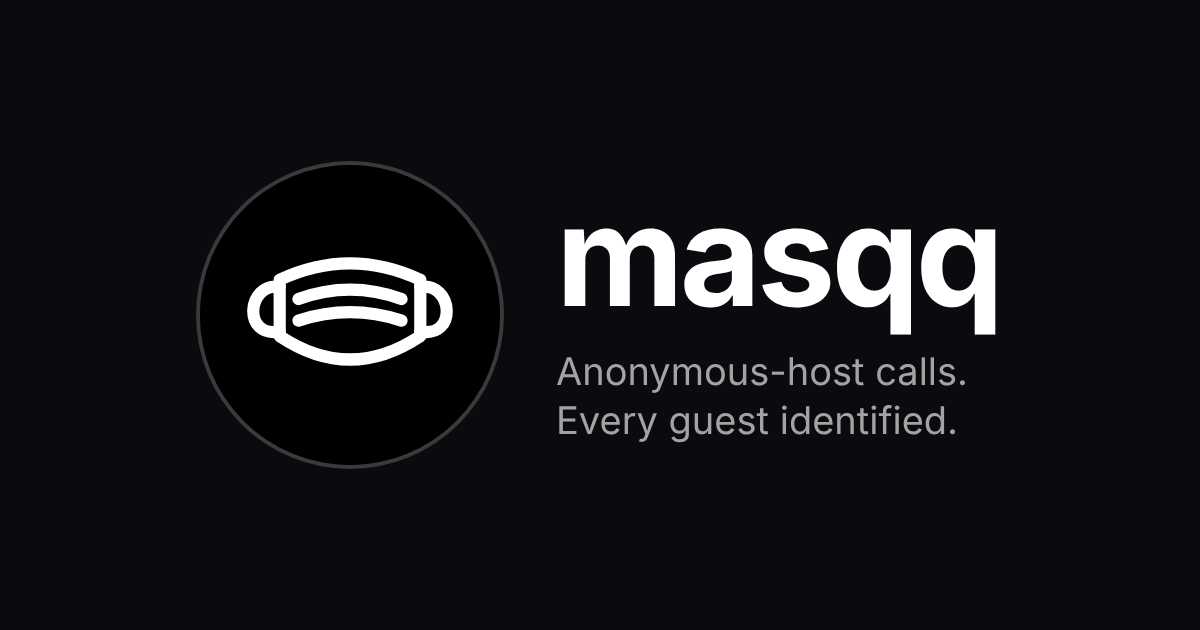
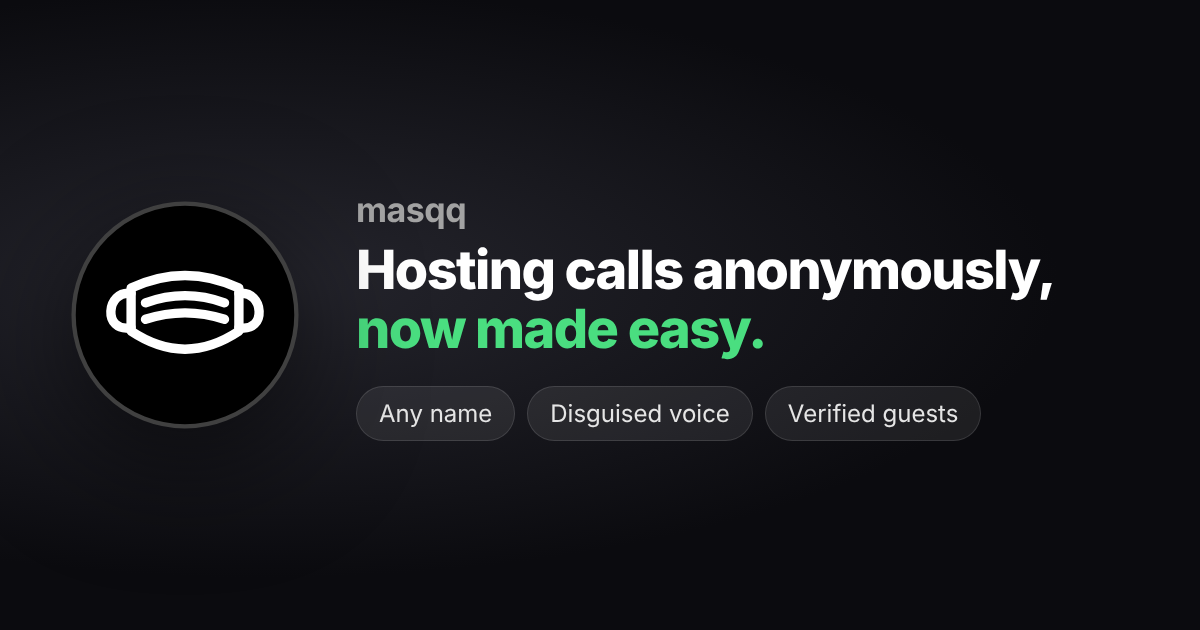
iPhone-style sign-in, home and invite screens; new link preview
Centered app-icon hero, premium Continue with Google pill with a loading
state, San Francisco font on Apple devices, and a link preview reading
'Hosting calls anonymously, now made easy.'

Claude-Session: https://claude.ai/code/session_01DkNDgiUFyz1a6dLDFGU6bu

diff --git a/src/app/c/[callId]/page.tsx b/src/app/c/[callId]/page.tsx
@@ -2,7 +2,8 @@ import type { Metadata } from "next";
 import { notFound, redirect } from "next/navigation";
 import { auth } from "@/auth";
 import { GoogleSignInButton } from "@/components/auth-buttons";
-import { LogoMark } from "@/components/logo";
+import { AuthScreen } from "@/components/brand-hero";
+import { Logo, LogoMark } from "@/components/logo";
 import { Avatar } from "@/components/ui/primitives";
 import { JoinRequest } from "@/components/join-request";
 import { db } from "@/lib/db";
@@ -21,9 +22,10 @@ export async function generateMetadata({ params }: Params): Promise<Metadata> {
   if (!call || call.status === "ENDED") return { title: "Call invite" };
   const who = call.hostTitle ? `${call.hostAlias} (${call.hostTitle})` : call.hostAlias;
   const title = `${who} invited you to a call`;
-  const description = "Join on masqq. Sign in with Google to request to join.";
+  const description = "A private masqq call. The host stays anonymous; tap to ask to join.";
   // Setting openGraph here replaces the root one, so the image must be repeated.
-  const images = [{ url: "/opengraph-image.png", width: 1200, height: 630, alt: "masqq" }];
+  // Bump ?v= whenever the image changes: WhatsApp caches previews by image URL.
+  const images = [{ url: "/opengraph-image.png?v=2", width: 1200, height: 630, alt: "masqq" }];
   return {
     title,
     description,
@@ -45,23 +47,28 @@ export default async function InvitePage({ params }: Params) {
     });
     if (!call) notFound();
     return (
-      <main className="mx-auto flex min-h-dvh max-w-md flex-col px-5 pb-[max(1.5rem,env(safe-area-inset-bottom))] pt-6">
-        <LogoMark className="h-9 w-9" />
+      <AuthScreen>
+        <Logo className="text-[17px]" />
         <div className="flex flex-1 flex-col items-center justify-center py-8 text-center">
           <Avatar name={call.hostAlias} size="h-28 w-28 text-4xl" />
-          <p className="mt-5 text-sm text-neutral-400">You&apos;re invited to a call with</p>
-          <h1 className="mt-1 text-3xl font-semibold">{call.hostAlias}</h1>
-          {call.hostTitle && <p className="mt-1 text-neutral-300">{call.hostTitle}</p>}
+          <p className="mt-5 text-[15px] text-neutral-400">You&apos;re invited to a call with</p>
+          <h1 className="mt-1 text-[28px] font-bold tracking-tight">{call.hostAlias}</h1>
+          {call.hostTitle && <p className="mt-0.5 text-[17px] text-neutral-300">{call.hostTitle}</p>}
+          <span className="mt-4 rounded-full bg-white/[0.06] px-3 py-1 text-[13px] text-neutral-300 ring-1 ring-white/10">
+            Anonymous host
+          </span>
         </div>
         {call.status === "ENDED" ? (
-          <p className="rounded-xl border border-neutral-800 p-5 text-neutral-300">This call has ended.</p>
+          <p className="w-full rounded-3xl bg-neutral-900 p-5 text-center text-neutral-300">This call has ended.</p>
         ) : (
-          <>
-            <p className="mb-3 text-center text-sm text-neutral-400">Sign in with Google to ask to join.</p>
+          <div className="w-full space-y-3 text-center">
             <GoogleSignInButton redirectTo={`/c/${segment}`} />
-          </>
+            <p className="px-4 text-[13px] leading-relaxed text-neutral-500">
+              Sign in to ask to join. The host will see your Google name and email.
+            </p>
+          </div>
         )}
-      </main>
+      </AuthScreen>
     );
   }
 

diff --git a/src/app/page.tsx b/src/app/page.tsx
@@ -1,28 +1,63 @@
 import Link from "next/link";
 import { auth } from "@/auth";
-import { LogoMark } from "@/components/logo";
+import { GoogleSignInButton } from "@/components/auth-buttons";
+import { AuthScreen, BrandHero } from "@/components/brand-hero";
+import { MicIcon, PeopleIcon, ShieldIcon } from "@/components/ui/icons";
+
+const FEATURES = [
+  {
+    icon: ShieldIcon,
+    tint: "bg-indigo-500",
+    title: "Any name, every call",
+    text: "Pick a new name for each call. Guests never see your account.",
+  },
+  {
+    icon: MicIcon,
+    tint: "bg-orange-500",
+    title: "A voice that isn't yours",
+    text: "Your voice is disguised on your phone before anyone hears it.",
+  },
+  {
+    icon: PeopleIcon,
+    tint: "bg-green-500",
+    title: "Know who's on the line",
+    text: "Every guest signs in with Google, and you let each one in.",
+  },
+];
 
 export default async function Home() {
   const session = await auth();
 
   return (
-    <main className="mx-auto flex min-h-screen max-w-2xl flex-col justify-center gap-6 px-4">
-      <h1 className="flex items-center gap-3 text-5xl font-semibold tracking-tight">
-        <LogoMark className="h-14 w-14" />
-        masqq
-      </h1>
-      <p className="text-lg text-neutral-400">
-        Host voice and video calls under any name, with a disguised voice. Every
-        guest signs in with Google, so you always know who you&apos;re talking to.
-      </p>
-      <div>
-        <Link
-          href={session?.user ? "/start" : "/signin"}
-          className="inline-block rounded-lg bg-white px-5 py-2.5 font-medium text-black hover:bg-neutral-200"
-        >
-          {session?.user ? "Open masqq" : "Sign in"}
-        </Link>
+    <AuthScreen>
+      <div className="flex flex-1 flex-col items-center justify-center gap-10 py-6">
+        <BrandHero />
+        <ul className="w-full divide-y divide-white/5 overflow-hidden rounded-3xl bg-neutral-900/70 ring-1 ring-white/5 backdrop-blur">
+          {FEATURES.map((f) => (
+            <li key={f.title} className="flex items-start gap-3.5 px-4 py-3.5 text-left">
+              <span className={`mt-0.5 flex h-8 w-8 shrink-0 items-center justify-center rounded-[9px] ${f.tint}`}>
+                <f.icon className="h-[18px] w-[18px] text-white" />
+              </span>
+              <span>
+                <span className="block text-[15px] font-semibold">{f.title}</span>
+                <span className="block text-[13px] leading-snug text-neutral-400">{f.text}</span>
+              </span>
+            </li>
+          ))}
+        </ul>
       </div>
-    </main>
+      <div className="w-full">
+        {session?.user ? (
+          <Link
+            href="/start"
+            className="flex h-14 w-full items-center justify-center rounded-full bg-white text-[17px] font-semibold text-black shadow-[0_10px_40px_-10px_rgba(255,255,255,0.35)] transition active:scale-[0.98]"
+          >
+            Open masqq
+          </Link>
+        ) : (
+          <GoogleSignInButton />
+        )}
+      </div>
+    </AuthScreen>
   );
 }

diff --git a/src/app/signin/page.tsx b/src/app/signin/page.tsx
@@ -2,7 +2,7 @@ import { redirect } from "next/navigation";
 import { z } from "zod";
 import { auth } from "@/auth";
 import { GoogleSignInButton } from "@/components/auth-buttons";
-import { LogoMark } from "@/components/logo";
+import { AuthScreen, BrandHero } from "@/components/brand-hero";
 
 const searchSchema = z.object({
   // Only allow same-site relative paths, to avoid open redirects.
@@ -14,6 +14,8 @@ const searchSchema = z.object({
   error: z.string().optional().catch(undefined),
 });
 
+export const metadata = { title: "Sign in" };
+
 export default async function SignInPage({
   searchParams,
 }: {
@@ -24,18 +26,22 @@ export default async function SignInPage({
   if (session?.user) redirect(session.user.banned ? "/suspended" : callbackUrl);
 
   return (
-    <main className="mx-auto flex min-h-screen max-w-sm flex-col justify-center gap-6 px-4">
-      <div>
-        <LogoMark className="mb-4 h-12 w-12" />
-        <h1 className="text-2xl font-semibold">Sign in to masqq</h1>
-        <p className="mt-1 text-sm text-neutral-400">Google sign-in only.</p>
+    <AuthScreen>
+      <div className="flex flex-1 items-center">
+        <BrandHero />
       </div>
-      {error && (
-        <p className="rounded-lg border border-red-900 bg-red-950 px-3 py-2 text-sm text-red-300">
-          Sign-in failed. Please try again.
+      <div className="w-full space-y-4 text-center">
+        {error && (
+          <p className="rounded-2xl bg-red-500/10 px-4 py-3 text-sm text-red-300">
+            Sign-in didn&apos;t finish. Please try again.
+          </p>
+        )}
+        <GoogleSignInButton redirectTo={callbackUrl} />
+        <p className="px-4 text-[13px] leading-relaxed text-neutral-500">
+          When you host, guests only see the name you choose. When you join a call, the host sees your Google name and
+          email.
         </p>
-      )}
-      <GoogleSignInButton redirectTo={callbackUrl} />
-    </main>
+      </div>
+    </AuthScreen>
   );
 }

diff --git a/src/components/google-submit.tsx b/src/components/google-submit.tsx
@@ -1,0 +1,33 @@
+"use client";
+
+import { useFormStatus } from "react-dom";
+
+function GoogleG({ className }: { className?: string }) {
+  return (
+    <svg viewBox="0 0 48 48" className={className} aria-hidden>
+      <path fill="#FFC107" d="M43.6 20.5H42V20H24v8h11.3C33.7 32.7 29.2 36 24 36c-6.6 0-12-5.4-12-12s5.4-12 12-12c3.1 0 5.8 1.2 7.9 3.1l5.7-5.7C34 6.1 29.3 4 24 4 12.9 4 4 12.9 4 24s8.9 20 20 20 20-8.9 20-20c0-1.3-.1-2.4-.4-3.5z" />
+      <path fill="#FF3D00" d="m6.3 14.7 6.6 4.8C14.7 15.1 19 12 24 12c3.1 0 5.8 1.2 7.9 3.1l5.7-5.7C34 6.1 29.3 4 24 4 16.3 4 9.7 8.3 6.3 14.7z" />
+      <path fill="#4CAF50" d="M24 44c5.2 0 9.9-2 13.4-5.2l-6.2-5.2C29.2 35.1 26.7 36 24 36c-5.2 0-9.6-3.3-11.3-7.9l-6.5 5C9.5 39.6 16.2 44 24 44z" />
+      <path fill="#1976D2" d="M43.6 20.5H42V20H24v8h11.3c-.8 2.2-2.2 4.2-4.1 5.6l6.2 5.2C37 39.2 44 34 44 24c0-1.3-.1-2.4-.4-3.5z" />
+    </svg>
+  );
+}
+
+/** The premium "Continue with Google" pill. Shows a spinner while redirecting. */
+export function GoogleSubmit() {
+  const { pending } = useFormStatus();
+  return (
+    <button
+      type="submit"
+      disabled={pending}
+      className="relative flex h-14 w-full items-center justify-center gap-3 rounded-full bg-white text-[17px] font-semibold text-black shadow-[0_10px_40px_-10px_rgba(255,255,255,0.35)] ring-1 ring-white/60 transition active:scale-[0.98] disabled:opacity-80"
+    >
+      {pending ? (
+        <span className="h-5 w-5 animate-spin rounded-full border-2 border-black/20 border-t-black" aria-hidden />
+      ) : (
+        <GoogleG className="h-6 w-6" />
+      )}
+      {pending ? "Opening Google…" : "Continue with Google"}
+    </button>
+  );
+}

diff --git a/src/components/brand-hero.tsx b/src/components/brand-hero.tsx
@@ -1,0 +1,35 @@
+import { LogoMark } from "@/components/logo";
+
+
+/** Centered app-icon style logo, name and tagline used on the sign-in screens. */
+export function BrandHero() {
+  return (
+    <div className="flex flex-col items-center text-center">
+      <div className="relative">
+        <div className="absolute inset-0 -z-10 scale-150 rounded-full bg-white/10 blur-3xl" aria-hidden />
+        <div className="rounded-[28px] bg-gradient-to-b from-neutral-800 to-neutral-950 p-3 shadow-2xl ring-1 ring-white/10">
+          <LogoMark className="h-20 w-20" />
+        </div>
+      </div>
+      <h1 className="mt-6 text-[34px] font-bold leading-tight tracking-tight">masqq</h1>
+      <p className="mt-2 text-[17px] leading-snug text-neutral-400">
+        Hosting calls anonymously,
+        <br />
+        now made easy.
+      </p>
+    </div>
+  );
+}
+
+/** Full-height, centered, safe-area aware screen with a soft top glow. */
+export function AuthScreen({ children }: { children: React.ReactNode }) {
+  return (
+    <main className="relative isolate mx-auto flex min-h-dvh w-full max-w-md flex-col items-center px-6 pb-[max(2rem,env(safe-area-inset-bottom))] pt-[max(2rem,env(safe-area-inset-top))]">
+      <div
+        className="pointer-events-none absolute inset-x-0 top-0 -z-20 h-[60vh] bg-[radial-gradient(ellipse_at_top,rgba(255,255,255,0.08),transparent_65%)]"
+        aria-hidden
+      />
+      {children}
+    </main>
+  );
+}

diff --git a/src/components/auth-buttons.tsx b/src/components/auth-buttons.tsx
@@ -1,19 +1,16 @@
 import { signIn, signOut } from "@/auth";
+import { GoogleSubmit } from "@/components/google-submit";
 
 export function GoogleSignInButton({ redirectTo = "/start" }: { redirectTo?: string }) {
   return (
     <form
+      className="w-full"
       action={async () => {
         "use server";
         await signIn("google", { redirectTo });
       }}
     >
-      <button
-        type="submit"
-        className="w-full rounded-lg bg-white px-4 py-2.5 font-medium text-black transition hover:bg-neutral-200"
-      >
-        Continue with Google
-      </button>
+      <GoogleSubmit />
     </form>
   );
 }

diff --git a/src/app/layout.tsx b/src/app/layout.tsx
@@ -13,7 +13,8 @@ const geistMono = Geist_Mono({
   subsets: ["latin"],
 });
 
-const description = "Host voice and video calls under any name. Every guest is identified.";
+const description =
+  "Hosting calls anonymously, now made easy. Pick any name, disguise your voice, and always know who joins.";
 
 export const metadata: Metadata = {
   // Absolute URLs for link previews (WhatsApp, iMessage, Slack, …).

diff --git a/src/app/globals.css b/src/app/globals.css
@@ -15,7 +15,9 @@
 body {
   background: var(--background);
   color: var(--foreground);
-  font-family: var(--font-sans), system-ui, sans-serif;
+  /* San Francisco on iPhone and Mac, Geist everywhere else. */
+  font-family: -apple-system, BlinkMacSystemFont, var(--font-sans), system-ui, sans-serif;
+  -webkit-tap-highlight-color: transparent;
 }
 
 /* Call tiles: make a muted microphone obvious. */
